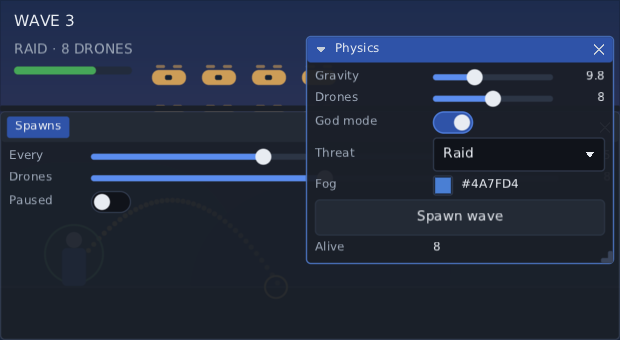
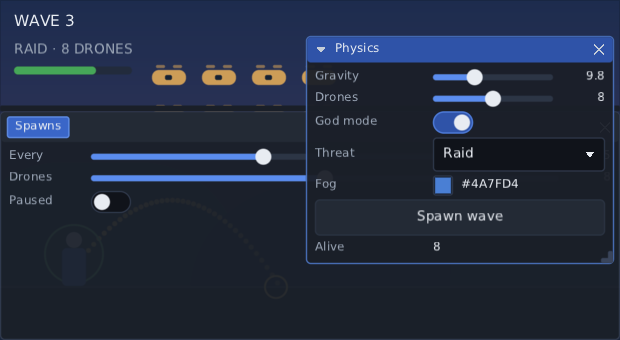
fix: a slider squeezed to nothing no longer crashes a mirrored screen
A window docked behind another tab is measured at no size at all. A Slider
measured that way worked out the fill as the track minus the middle of the
knob, and the knob's middle does not shrink with the track, so the sum went
below zero and layout refused a negative width. Only vertical sliders and
horizontal ones on a right-to-left screen took that branch, so tabbing two
debug windows together on a mirrored screen was a hard crash. Left to right
took the other branch and quietly drew the fill past the end of the track
instead.

The knob's middle is now kept on the track, which fixes the crash and the
overdrawn fill in one line. It only bites when there is less track than knob,
which is a slider nobody can see anyway.

Swept the rest of the codebase for the same shape — one measured span taken
from another and handed to layout as a size. Everything else already clamps.
The one exception is the last weighted child of a row or column, which takes
"whatever is left" and could in principle be handed a hair less than nothing
by float rounding; clamped for safety.

Guard tests: every widget composed at nothing, at one pixel and at a few, both
ways round, laid out and drawn. Plus the docking case itself — two debug
windows with a slider each, tabbed together on a mirrored screen.

Also: a chosen tab was exactly the colour of the bar it sits on, so on a lit
pane it vanished while the unchosen tabs looked like the raised ones. The
[…]

Changed region(s): [[0.0, 0.3235, 0.1226, 0.4118]]

diff --git a/composegl-ui/src/commonTest/kotlin/dev/wildware/composegl/ui/widget/SqueezedWidgetsTest.kt b/composegl-ui/src/commonTest/kotlin/dev/wildware/composegl/ui/widget/SqueezedWidgetsTest.kt
@@ -1,0 +1,151 @@
+package dev.wildware.composegl.ui.widget
+
+import androidx.compose.runtime.Composable
+import dev.wildware.composegl.ui.geometry.Size
+import dev.wildware.composegl.ui.layout.Box
+import dev.wildware.composegl.ui.layout.Column
+import dev.wildware.composegl.ui.layout.LayoutDirection
+import dev.wildware.composegl.ui.layout.ProvideLayoutDirection
+import dev.wildware.composegl.ui.layout.Row
+import dev.wildware.composegl.ui.modifier.Modifier
+import dev.wildware.composegl.ui.modifier.size
+import dev.wildware.composegl.ui.testing.uiTest
+import kotlin.test.Test
+
+/**
+ * Every widget, squeezed to nothing, in both directions.
+ *
+ * A widget measured at no size at all is not a silly edge case here: it is what a docked debug
+ * window behind another tab is measured at, and what a pane dragged shut is measured at. A widget
+ * that throws there takes the whole screen down with it, so this composes each one at nothing, at
+ * one pixel and at a few, left to right and right to left, lays it out and draws it. Nothing is
+ * asserted about what comes out — the assertion is that it comes out at all.
+ *
+ * The family that got this written is anything with a track and a fill. The length of the fill is
+ * worked out from the length of the track, and one span subtracted from another goes below zero the
+ * moment the track is shorter than the fittings sitting on it.
+ */
+class SqueezedWidgetsTest {
+
+    /** Nothing at all, one pixel, and a few — small enough that the fittings do not fit. */
+    private val sides = listOf(0f, 1f, 4f)
+
+    private val directions = listOf(LayoutDirection.Ltr, LayoutDirection.Rtl)
+
+    /** Lays [content] out at every squeezed size in both directions and draws it. */
+    private fun squeezed(content: @Composable (Modifier) -> Unit) {
+        for (direction in directions) {
+            for (side in sides) {
+                // Told exactly what size to be, which is what a window behind another tab is told.
+                show(direction) { content(Modifier.size(side)) }
+                // Crushed on one axis only: the narrow side pane rather than the hidden tab.
+                show(direction) { content(Modifier.size(side, 200f)) }
+                show(direction) { content(Modifier.size(200f, side)) }
+                // And with no room to be in, rather than an order to be nothing.
+                show(direction) { Box(Modifier.size(side)) { content(Modifier) } }
+            }
+        }
+    }
+
+    private fun show(direction: LayoutDirection, content: @Composable () -> Unit) {
+        uiTest(Size(200f, 200f)) { ProvideLayoutDirection(direction) { content() } }.use { it.render() }
+    }
+
+    // --- a track with a fill on it ---------------------------------------------------------------
+
+    @Test
+    fun `a slider survives being measured at nothing`() =
+        squeezed { Slider(0.5f, onValueChange = {}, modifier = it) }
+
+    @Test
+    fun `a slider at either end survives being measured at nothing`() {
+        squeezed { Slider(0f, onValueChange = {}, modifier = it) }
+        squeezed { Slider(1f, onValueChange = {}, modifier = it) }
+    }
+
+    @Test
+    fun `a vertical slider survives being measured at nothing`() =
+        squeezed { Slider(0.5f, onValueChange = {}, modifier = it, orientation = Orientation.Vertical) }
+
+    @Test
+    fun `a slider with a big knob on a short track survives`() =
+        squeezed { Slider(0.5f, onValueChange = {}, modifier = it, knob = 64f, thickness = 40f) }
+
+    @Test
+    fun `an indeterminate bar survives being measured at nothing`() {
+        squeezed { IndeterminateBar(modifier = it) }
+        squeezed { IndeterminateBar(modifier = it, orientation = Orientation.Vertical) }
+    }
+
+    @Test
+    fun `a spinner survives being measured at nothing`() = squeezed { Spinner(modifier = it) }
+
+    @Test
+    fun `a scroll area and its bars survive being measured at nothing`() =
+        squeezed { modifier ->
+            ScrollArea(modifier = modifier, horizontal = true) {
+                Column { repeat(6) { Text("row $it") } }
+            }
+        }
+
+    @Test
+    fun `a lazy list and its bars survive being measured at nothing`() {
+        squeezed { modifier -> LazyColumn(8, modifier) { Text("row $it") } }
+        squeezed { modifier -> LazyRow(8, modifier) { Text("row $it") } }
+    }
+
+    @Test
+    fun `a splitter survives being measured at nothing`() {
+        squeezed { Splitter(0.5f, onFractionChange = {}, modifier = it, first = { Text("one") }, second = { Text("two") }) }
+        squeezed {
+            Splitter(
+                0.5f,
+                onFractionChange = {},
+                modifier = it,
+                orientation = Orientation.Vertical,
+                first = { Text("one") },
+                second = { Text("two") },
+            )
+        }
+    }
+
+    // --- everything else that draws, for the same reason -----------------------------------------
+
+    @Test
+    fun `a button survives being measured at nothing`() = squeezed { Button("GO", onClick = {}, modifier = it) }
+
+    @Test
+    fun `a toggle and its friends survive being measured at nothing`() {
+        squeezed { Checkbox(true, onCheckedChange = {}, modifier = it) }
+        squeezed { RadioButton(true, onSelect = {}, modifier = it) }
+        squeezed { Toggle(true, onCheckedChange = {}, modifier = it) }
+    }
+
+    @Test
+    fun `a stepper survives being measured at nothing`() =
+        squeezed { NumberStepper(5, onValueChange = {}, modifier = it, range = 0..10) }
+
+    @Test
+    fun `text survives being measured at nothing`() = squeezed { Text("a line of text", modifier = it) }
+
+    @Test
+    fun `a text field survives being measured at nothing`() =
+        squeezed { TextField("typed", onValueChange = {}, modifier = it) }
+
+    @Test
+    fun `a divider survives being measured at nothing`() {
+        squeezed { Divider(modifier = it) }
+        squeezed { Divider(modifier = it, vertical = true) }
+    }
+
+    @Test
+    fun `a panel and a row and a column survive being measured at nothing`() {
+        squeezed { Panel(modifier = it) { Text("inside") } }
+        squeezed { modifier -> Row(modifier) { Text("one"); Text("two") } }
+        squeezed { modifier -> Column(modifier) { Text("one"); Text("two") } }
+    }
+
+    @Test
+    fun `a collapsing header survives being measured at nothing`() =
+        squeezed { modifier -> CollapsingHeader("Header", modifier = modifier) { Text("inside") } }
+}

diff --git a/composegl-game/src/commonTest/kotlin/dev/wildware/composegl/game/SqueezedBarTest.kt b/composegl-game/src/commonTest/kotlin/dev/wildware/composegl/game/SqueezedBarTest.kt
@@ -1,0 +1,66 @@
+package dev.wildware.composegl.game
+
+import androidx.compose.runtime.Composable
+import dev.wildware.composegl.ui.geometry.Size
+import dev.wildware.composegl.ui.layout.Box
+import dev.wildware.composegl.ui.layout.LayoutDirection
+import dev.wildware.composegl.ui.layout.ProvideLayoutDirection
+import dev.wildware.composegl.ui.modifier.Modifier
+import dev.wildware.composegl.ui.modifier.size
+import dev.wildware.composegl.ui.testing.uiTest
+import dev.wildware.composegl.ui.widget.Orientation
+import kotlin.test.Test
+
+/**
+ * A bar squeezed to nothing, in both directions.
+ *
+ * The same guard as the toolkit's `SqueezedWidgetsTest`, for the same reason: a bar is a track with
+ * a fill on it, and a fill worked out by subtracting one measured length from another goes below
+ * zero when the track is shorter than the fittings. A bar inside a pane dragged shut, or on a HUD
+ * laid out before the screen size is known, is measured at nothing and must still come out.
+ */
+class SqueezedBarTest {
+
+    private val sides = listOf(0f, 1f, 4f)
+
+    private val directions = listOf(LayoutDirection.Ltr, LayoutDirection.Rtl)
+
+    private fun squeezed(content: @Composable (Modifier) -> Unit) {
+        for (direction in directions) {
+            for (side in sides) {
+                show(direction) { content(Modifier.size(side)) }
+                show(direction) { content(Modifier.size(side, 200f)) }
+                show(direction) { content(Modifier.size(200f, side)) }
+                show(direction) { Box(Modifier.size(side)) { content(Modifier) } }
+            }
+        }
+    }
+
+    private fun show(direction: LayoutDirection, content: @Composable () -> Unit) {
+        uiTest(Size(200f, 200f)) { ProvideLayoutDirection(direction) { content() } }.use { it.render() }
+    }
+
+    @Test
+    fun `a bar survives being measured at nothing`() {
+        squeezed { Bar(0.5f, modifier = it) }
+        squeezed { Bar(0f, modifier = it) }
+        squeezed { Bar(1f, modifier = it) }
+    }
+
+    @Test
+    fun `a vertical bar survives being measured at nothing`() =
+        squeezed { Bar(0.5f, modifier = it, orientation = Orientation.Vertical) }
+
+    @Test
+    fun `a segmented bar survives being measured at nothing`() =
+        squeezed { Bar(0.5f, modifier = it, segments = 6) }
+
+    @Test
+    fun `a bar with a fat track survives being measured at nothing`() =
+        squeezed { Bar(0.5f, modifier = it, thickness = 64f) }
+
+    /** No pulse: a breathing bar animates for ever by design, so a test can never let it settle. */
+    @Test
+    fun `a bar past a threshold survives being measured at nothing`() =
+        squeezed { Bar(0.1f, modifier = it, thresholds = listOf(BarThreshold(0.25f, "bar.fill"))) }
+}

diff --git a/composegl-debug/src/commonTest/kotlin/dev/wildware/composegl/debug/DebugWindowDockingTest.kt b/composegl-debug/src/commonTest/kotlin/dev/wildware/composegl/debug/DebugWindowDockingTest.kt
@@ -451,6 +451,42 @@ class DebugWindowDockingTest {
         assertEquals(600f, pane.height)
     }
 
+    /**
+     * The window behind a tab is measured at nothing at all, and on a mirrored screen a slider
+     * squeezed to nothing used to ask layout for a fill of a negative length and bring the whole
+     * screen down. Two windows with a slider each, tabbed together, is the smallest thing that did
+     * it — and it is what a person tidying a screen full of debug windows does first.
+     */
+    @Test
+    fun `tabbing two windows with sliders together on a mirrored screen does not throw`() {
+        val state = DebugWindowsState(store)
+        val ui = open {
+            ProvideLayoutDirection(LayoutDirection.Rtl) { TwoTweaks(state) }
+        }
+
+        ui.drag(ui.title("One").boundsInRoot.centre, screenSquare(DockSide.Left))
+        val pane = ui.window("One").layoutBoundsInRoot
+        ui.drag(ui.title("Two").boundsInRoot.centre, windowSquare(pane, null))
+
+        assertEquals(listOf("One", "Two"), state.tabsWith("One"))
+        assertEquals(0f, ui.window("One").width, "the window behind the tab takes no room at all")
+        assertEquals(listOf("One", "Two"), ui.tabs(), "one strip with both tabs on it")
+        ui.render()
+    }
+
+    /** The same pair of windows, each with a slider on it. */
+    @Composable
+    private fun TwoTweaks(state: DebugWindowsState) {
+        DebugWindowHost(state = state) {
+            DebugWindow("One", initialPosition = Offset(40f, 40f)) {
+                tweak("Gravity", 9.8f, {}, 0f..20f)
+            }
+            DebugWindow("Two", initialPosition = Offset(360f, 300f)) {
+                tweak("Drag", 0.5f, {}, 0f..1f)
+            }
+        }
+    }
+
     @Test
     fun `a tab pulled out on a mirrored screen lands under the pointer`() {
         val state = DebugWindowsState(store)

diff --git a/composegl-demo/src/main/kotlin/dev/wildware/composegl/demo/docs/DocShots.kt b/composegl-demo/src/main/kotlin/dev/wildware/composegl/demo/docs/DocShots.kt
@@ -3803,15 +3803,11 @@ private val DockAndTab = listOf(
 )
 
 /**
- * The same thing on a screen that reads from the right: one window carried out of the way, one
- * docked against the bottom edge, and the divider pulled up to fit it. A position is measured from
- * the start edge, which is the right one, so both windows start over there; the squares and the
- * divider are places on the screen and do not move.
- *
- * Without the tabbing the picture above shows, because a window tabbed behind another is measured
- * at no size at all and a `Slider` measured to no width throws on a mirrored screen —
- * `SliderPolicy` asks its fill for `span - middle` there, which goes negative. Reported rather than
- * worked around: this picture says what docking looks like mirrored either way.
+ * The same three drags on a screen that reads from the right: one window carried out of the way,
+ * one docked against the bottom edge, the second dropped on the middle square of its cross so the
+ * two share the pane as tabs, and the divider pulled up to give them room. A position is measured
+ * from the start edge, which is the right one, so both windows start over there; the squares and
+ * the divider are places on the screen and do not move.
  */
 private val DockRtl = listOf(
     // A position is measured from the start edge, so Physics opens over the HUD on this screen
@@ -3820,7 +3816,9 @@ private val DockRtl = listOf(
     Dragging.Wait(3),
     Dragging.Drag(Offset(540f, 132f), DockDrop),
     Dragging.Wait(3),
-    Dragging.Drag(DockDivider, Offset(200f, 230f)),
+    Dragging.Drag(Offset(242f, 21f), DockTabDrop),
+    Dragging.Wait(3),
+    Dragging.Drag(DockDivider, DockDividerTo),
     Dragging.Wait(3),
 )
 

diff --git a/composegl-ui/src/commonMain/kotlin/dev/wildware/composegl/ui/layout/Linear.kt b/composegl-ui/src/commonMain/kotlin/dev/wildware/composegl/ui/layout/Linear.kt
@@ -65,8 +65,12 @@ internal data class LinearPolicy(
                 // The last weighted child takes exactly what is left rather than its own share.
                 // Shares are floats, and a row of three thirds that adds up to a sliver under the
                 // full width leaves a seam down the screen that nobody can find.
+                // Never below nothing: the shares add up to the space on paper, but they are floats,
+                // and a long row whose last weight is a sliver can hand out a hair more than there
+                // was. A child asked for a negative width is a crash rather than a rounding error.
                 val share =
-                    if (index == lastWeighted) spare - handedOut else spare * (weight / totalWeight)
+                    if (index == lastWeighted) (spare - handedOut).coerceAtLeast(0f)
+                    else spare * (weight / totalWeight)
                 handedOut += share
                 val placeable = measurable.measure(
                     childConstraints(share, crossMax, offers[index], tight = true),

diff --git a/composegl-ui/src/commonMain/kotlin/dev/wildware/composegl/ui/widget/Slider.kt b/composegl-ui/src/commonMain/kotlin/dev/wildware/composegl/ui/widget/Slider.kt
@@ -173,7 +173,11 @@ private class SliderPolicy(
         // A vertical slider's maximum is at the top, because that is where a player reaches for
         // "more". So its knob runs the other way down the screen, as a mirrored one does across it.
         val knobAt = if (horizontal && !mirrored) fraction * travel else (1f - fraction) * travel
-        val middle = knobAt + knob / 2f
+        // Kept on the track. A slider squeezed shorter than its own knob — a docked pane behind
+        // another tab is measured at nothing at all — would otherwise put the knob's middle past the
+        // end, and the part of the track left over would be a negative length. Clamping only bites
+        // when there is less track than knob, which is the case nobody can see anyway.
+        val middle = (knobAt + knob / 2f).coerceIn(0f, span)
 
         val track = measurables[0].measure(fixed(span, thickness))
         val fill = measurables[1].measure(

diff --git a/docs/wiki/Debugging.md b/docs/wiki/Debugging.md
@@ -222,9 +222,9 @@ nearest first, so the two always end up together. `isDocked`, `tabsWith`, `docke
 positions, under one key, so it comes back the next time the game runs — panes and all, including
 ones for windows this run has not composed yet, which are left out until they appear.
 
-![a window docked along the bottom of the screen in the high-contrast skin on a screen that reads from the right: the Spawns tab at the right end of the strip, the close cross at the left, and each row's label on the right with its slider filling from that end](https://raw.githubusercontent.com/wildware-uk/composegl/master/docs/wiki/images/debug-window-dock-rtl.png)
+![two windows tabbed into one pane along the bottom of the screen in the high-contrast skin on a screen that reads from the right: the Spawns and Physics tabs at the right end of the strip with Physics chosen, the close cross at the left, and each row's label on the right with its slider filling from that end](https://raw.githubusercontent.com/wildware-uk/composegl/master/docs/wiki/images/debug-window-dock-rtl.png)
 
-The same drop, on a screen that reads from the right. An edge of the screen is the same edge
+The same two drops, on a screen that reads from the right. An edge of the screen is the same edge
 whichever way the words run, so the pane lands where it was dropped; it is the strip of tabs and the
 rows inside it that read from the other end. That is the high-contrast skin, and the line above the
 pane is the divider that was dragged up, still focused.
